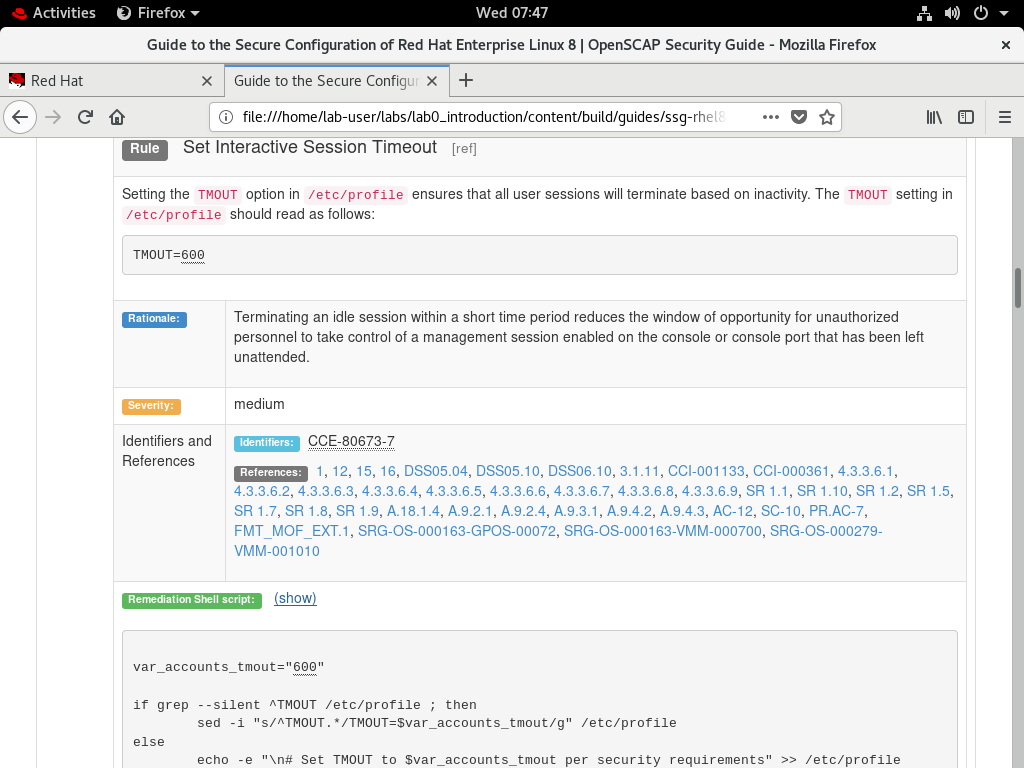
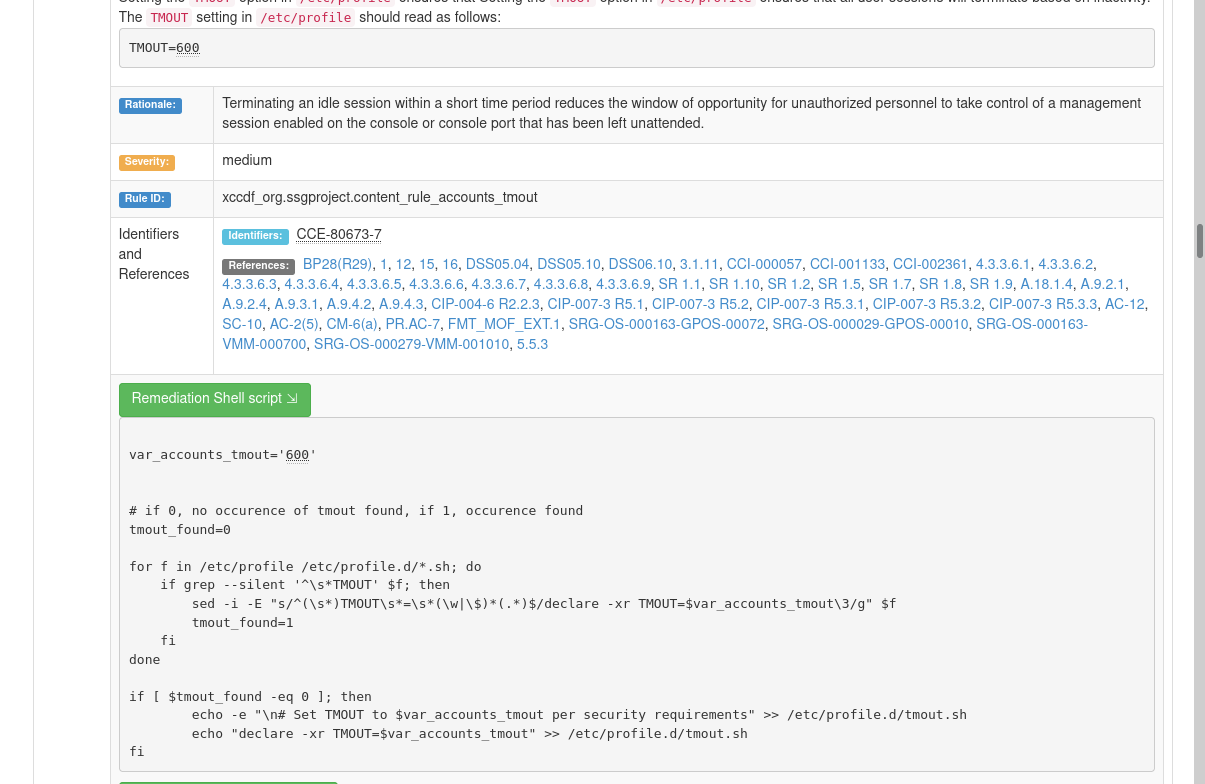
Update images of lab exercise 1.

diff --git a/docs/workshop/lab1_introduction.md b/docs/workshop/lab1_introduction.md
@@ -368,7 +368,7 @@ RHEL8-only remediation and cannot be used to remediate RHEL7 systems.
 This naming convention is relevant for all types of additional content.
 
 Unlike checks, you can review remediations in the guide - there is a
-clickable `(show)` link to do so. Bring back the browser window with the
+clickable `Remediation Schell Script` link to do so. Bring back the browser window with the
 guide open, and see for yourself.
 
 ![Bash remediation snippet in the HTML guide](images/0-03-remediation.png)
